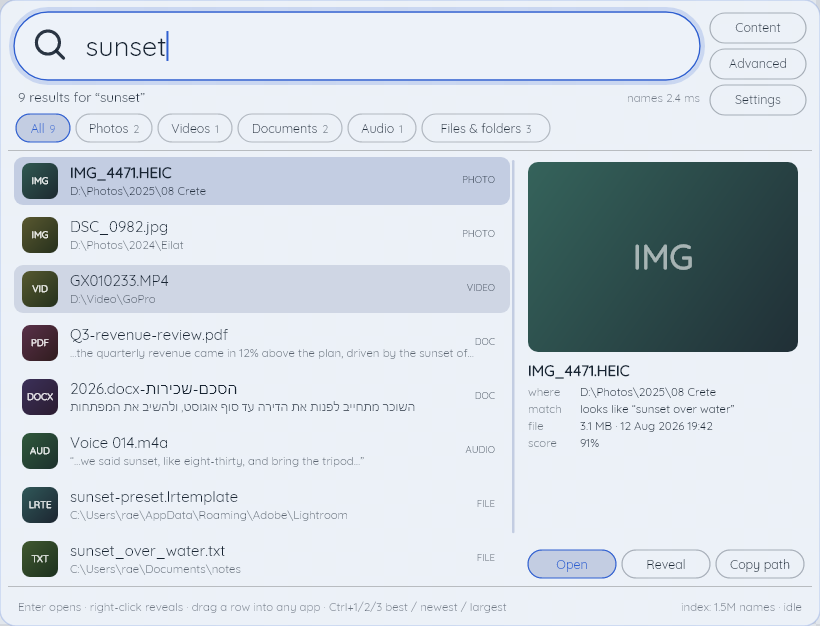
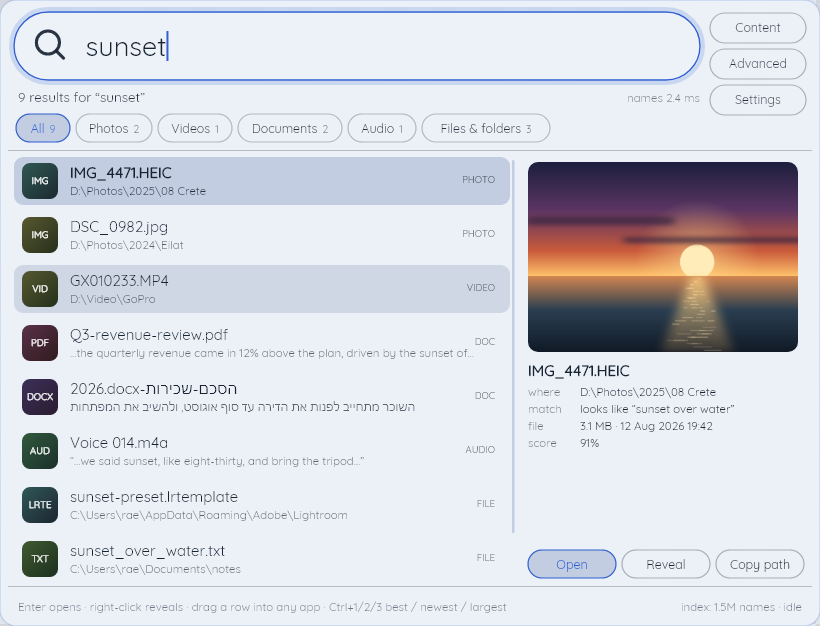
The card previews what it found, and the page opens on it
The stage's picture branch - the centre-crop that shows you the file you are
standing on - had never been rendered by any shot. Every state left StageImage
null and took the no-picture tile, so the one surface whose whole job is showing
you the file was only ever reviewed in its fallback, and the README's own alt text
for that image ("with a photo previewed beside them") had been describing
something the render did not contain.

`results` and `opening` highlight a photo and now carry one; `many` highlights a
document and keeps the tile, so both branches are on screen somewhere. The picture
is drawn rather than photographed, and it is 3:2 rather than square so the crop
actually crops - the crop being the half of that branch most likely to be wrong.
Everything else about that state is invented too: the file names, the drive
letters, the scores, the Hebrew tenancy agreement. What a shot promises is not
that the data is real but that the painter is.

docs/shots and website/public/shots pick up the four regenerated renders.

The site now opens on the mark, the name and that card, with the card running off
the right of the window rather than stopping at a gutter - a screenshot the window
crops implies there is more of it, which the same screenshot boxed in a column
does not. The crop is placed so it takes the panel's padding and not its evidence:
every row in the list is a content match, and the previewed photograph was matched
on what it shows rather than on its name.
[…]

Changed region(s): [[0.6402, 0.2428, 0.9756, 0.5767]]

diff --git a/website/public/styles.css b/website/public/styles.css
@@ -197,6 +197,49 @@ main, header, footer { position: relative; z-index: 1; }
 .btn-ghost:hover { border-color: var(--accent-line); color: var(--ink-bright); }
 .btn-sm { padding: 10px 20px; border-radius: 999px; font-size: 14px; }
 
+/* ---------- the lede ---------------------------------------------------- */
+
+/* Full-bleed on purpose. The left column lines up with .wrap's content edge - the calc is
+   that edge worked out from the viewport - while the card runs off the right of the screen
+   instead of stopping at a gutter. A screenshot cropped by the window implies there is more
+   of it; the same screenshot boxed inside a column implies that is all there is. The price is
+   that the card's right-hand preview panel goes over the edge on narrow desktops, which is why
+   the picture is the one where the preview is not the only evidence: every row in the list is
+   a content match too. */
+.lede {
+  display: grid;
+  grid-template-columns: minmax(0, 620px) minmax(0, 1fr);
+  gap: 40px; align-items: center; overflow: hidden;
+  padding-block: clamp(40px, 5.5vw, 74px);
+  padding-left: max(var(--pad), calc((100% - 1320px) / 2 + var(--pad)));
+}
+.lede-copy { display: flex; flex-direction: column; gap: 24px; }
+
+.lede-lockup { display: flex; align-items: center; gap: 16px; align-self: flex-start; }
+.lede-lockup .brand-mark {
+  width: 56px; height: 56px;
+  /* The nav's mark is already pulsing. Two of them on one screen is a tic, not a detail. */
+  animation: none;
+}
+.lede-lockup .brand-name { font-size: 34px; }
+
+.lede h1 { font-size: clamp(36px, 4.7vw, 58px); line-height: 1.02; }
+.lede h1 .accent { color: var(--accent); }
+
+.lede-shot { position: relative; margin: 0; }
+/* The glow is a blurred plate behind the image rather than a box-shadow, so the light comes
+   off the card's own footprint and survives the rotation with it. */
+.lede-shot::before {
+  content: ""; position: absolute; inset: 6% 8%;
+  background: rgba(250, 126, 0, 0.16); filter: blur(58px); border-radius: 40px;
+}
+.lede-shot img {
+  position: relative; display: block; width: min(880px, 132%); height: auto;
+  border-radius: var(--r-md); border: 1px solid var(--line);
+  box-shadow: 0 40px 90px rgba(0, 0, 0, 0.66);
+  transform: rotate(-1.5deg);
+}
+
 /* ---------- hero -------------------------------------------------------- */
 
 .hero {
@@ -213,8 +256,11 @@ main, header, footer { position: relative; z-index: 1; }
 }
 .eyebrow .dot { width: 7px; height: 7px; border-radius: 50%; background: var(--accent); }
 
-.hero h1 { font-size: clamp(38px, 5.2vw, 64px); line-height: 1.02; letter-spacing: -0.03em; }
-.hero h1 .accent { color: var(--accent); }
+/* With the lede above it this section is no longer the page's opening statement, so its
+   heading is an h2 and steps down to match. Left at hero size it read as a second first
+   thing, and the page appeared to start twice. Nothing else in the section changed. */
+.hero h2 { font-size: clamp(32px, 4vw, 50px); line-height: 1.04; letter-spacing: -0.03em; }
+.hero h2 .accent { color: var(--accent); }
 
 .hero-sub { font-size: clamp(16.5px, 1.35vw, 18.5px); line-height: 1.62; color: var(--ink-dim); max-width: 560px; }
 .hero-sub.bright { color: #d6cdbd; }
@@ -545,6 +591,12 @@ td.no { color: var(--ink-faint); }
 }
 
 @media (max-width: 960px) {
+  /* The bleed is a desktop gesture. Below this the card would be cropped past the point where
+     the list is readable, so it stops overflowing, straightens up and sits under the copy. */
+  .lede { grid-template-columns: minmax(0, 1fr); gap: 40px; padding-inline: var(--pad); }
+  .lede-shot img { width: 100%; transform: none; }
+  .lede-lockup .brand-mark { width: 44px; height: 44px; }
+  .lede-lockup .brand-name { font-size: 27px; }
   .hero { grid-template-columns: minmax(0, 1fr); gap: 44px; }
   .stack { min-height: 640px; max-width: 560px; }
   .privacy, .install { grid-template-columns: minmax(0, 1fr); }

diff --git a/website/public/index.html b/website/public/index.html
@@ -48,13 +48,52 @@
 
 <main id="top">
 
-  <!-- ================= hero ================= -->
+  <!-- ================= the lede ================= -->
+  <!-- The card runs off the right of the screen on purpose; see .lede in styles.css. -->
+  <section class="lede">
+    <div class="lede-copy">
+      <span class="lede-lockup">
+        <span class="brand-mark" aria-hidden="true"></span>
+        <span class="brand-name">FINDRA</span>
+      </span>
+
+      <h1>WINDOWS SEARCH.<br><span class="accent">BUT IT WORKS.</span></h1>
+
+      <p class="hero-sub">
+        Type one word. Findra gives you the photo that looks like it, the document that says it
+        and the recording where somebody said it - and not one of them has it in the filename.
+      </p>
+
+      <div class="hero-actions">
+        <a class="btn btn-primary" href="#install">
+          <svg width="19" height="19" viewBox="0 0 24 24" fill="none" stroke="currentColor" stroke-width="2.2" stroke-linecap="round" stroke-linejoin="round" aria-hidden="true"><circle cx="12" cy="12" r="9"/><polyline points="12 7 12 12 15 14"/></svg>
+          Coming soon
+        </a>
+        <a class="btn btn-ghost" href="#finds">See what it finds</a>
+      </div>
+
+      <div class="hero-meta">
+        <span>Windows 10 and 11</span>
+        <span class="sep">/</span>
+        <span>Apache-2.0</span>
+        <span class="sep">/</span>
+        <span>No account, because we do not want to know you</span>
+      </div>
+    </div>
+
+    <figure class="lede-shot">
+      <img src="shots/results.png" width="820" height="626"
+           alt="Findra's results card answering a search for sunset: a photograph matched on what it shows, documents matched on their text, and a recording matched on what was said">
+    </figure>
+  </section>
+
+  <!-- ================= the ticket ================= -->
   <div class="wrap">
     <section class="hero">
       <div class="hero-copy">
         <span class="eyebrow"><span class="dot"></span>TICKET #3036 &middot; OPEN SINCE 1996 &middot; NOW CLOSED</span>
 
-        <h1>WE FIXED WINDOWS<br>SEARCH.<br><span class="accent">YOU'RE WELCOME.</span></h1>
+        <h2>WE FIXED WINDOWS SEARCH.<br><span class="accent">YOU'RE WELCOME.</span></h2>
 
         <p class="hero-sub">
           You bought a drive that reads seven thousand megabytes a second. Windows uses it to

diff --git a/src/Findra/Diagnostics/SearchShot.cs b/src/Findra/Diagnostics/SearchShot.cs
@@ -333,6 +333,13 @@ public static class SearchShot
             // clause here is a sentence IndexStatus.Line or IndexLineFormatter really produces.
             IndexLine: state == "many" ? LongIndexLine : "index: 1.5M names · idle",
             StageDetail: "3.1 MB · 12 Aug 2026 19:42", Clock: 0.2,
+            // The stage's PICTURE branch - the centre-crop in DrawStage - was painted by no shot
+            // at all: every state left StageImage null and took the no-art tile, so the one
+            // surface whose whole job is showing you the file was only ever reviewed in its
+            // fallback. `results` and `opening` highlight a photo and get one; `many` highlights
+            // a document and keeps the tile, so both branches are on screen somewhere.
+            StageImage: highlight >= 0 && highlight < rows.Count && rows[highlight].Kind == ResultKind.Photo
+                ? SunsetOverWater() : null,
             // `results` hovers a row that is not the selected one: without it the list's hover
             // fill is painted by no shot and no test, which is what let RowHover sit within
             // 1.4 L* of Row - and inverted on two palettes - without anything noticing.
@@ -344,4 +351,121 @@ public static class SearchShot
             OpenedAt: state == "opening" ? 0.13 : -1);
     }
 
+    /// <summary>The demo photograph: a sunset over water, DRAWN rather than photographed.
+    ///
+    /// <para>Everything else about this state is invented too - the file names, the drive
+    /// letters, the scores, the Hebrew tenancy agreement - and the point of the shot has never
+    /// been that the data is real. It is that the PAINTER is: what a shot shows is what the card
+    /// puts on a screen, pixel for pixel. So the picture is handed to <c>DrawStage</c> as an
+    /// ordinary <see cref="SKImage"/> and goes through the same clip, the same centre-crop and
+    /// the same sampling a decoded HEIC would.</para>
+    ///
+    /// <para>It is deliberately 3:2 and not square. The stage's picture well is square for a
+    /// photo, so a square source would scale and never crop, and the crop is the half of that
+    /// branch most likely to be wrong. This one loses a third of its width and keeps the sun.
+    /// </para></summary>
+    private static SKImage SunsetOverWater()
+    {
+        const int w = 480, h = 320;
+        const float horizon = h * 0.60f;
+
+        using SKSurface surface = SKSurface.Create(new SKImageInfo(w, h, SKColorType.Bgra8888, SKAlphaType.Premul));
+        SKCanvas c = surface.Canvas;
+
+        using (var sky = new SKPaint { IsAntialias = true })
+        {
+            sky.Shader = SKShader.CreateLinearGradient(
+                new SKPoint(0, 0), new SKPoint(0, horizon),
+                [new SKColor(0x1B, 0x1E, 0x3C), new SKColor(0x5B, 0x35, 0x63),
+                 new SKColor(0xC9, 0x5A, 0x3A), new SKColor(0xFF, 0xC1, 0x6B)],
+                [0f, 0.42f, 0.78f, 1f], SKShaderTileMode.Clamp);
+            c.DrawRect(new SKRect(0, 0, w, horizon), sky);
+        }
+
+        // The sun, just clear of the horizon and off centre, so the crop has something to keep.
+        const float sx = w * 0.62f, sy = horizon - 24f, sr = 29f;
+        using (var glow = new SKPaint { IsAntialias = true })
+        {
+            glow.Shader = SKShader.CreateRadialGradient(
+                new SKPoint(sx, sy), sr * 3.6f,
+                [new SKColor(0xFF, 0xD9, 0x8A, 150), new SKColor(0xFF, 0xD9, 0x8A, 0)],
+                SKShaderTileMode.Clamp);
+            c.DrawCircle(sx, sy, sr * 3.6f, glow);
+        }
+        using (var disc = new SKPaint { IsAntialias = true, Color = new SKColor(0xFF, 0xEC, 0xB8) })
+            c.DrawCircle(sx, sy, sr, disc);
+
+        // Blurred, because an unblurred bar in a sky reads as a user-interface element rather
+        // than as cloud, and this picture has to survive being three centimetres wide.
+        using (var cloud = new SKPaint
+        {
+            IsAntialias = true, Color = new SKColor(0x33, 0x24, 0x40, 165),
+            ImageFilter = SKImageFilter.CreateBlur(7f, 3.5f),
+        })
+        {
+            c.DrawRoundRect(new SKRoundRect(new SKRect(w * 0.02f, horizon - 100, w * 0.54f, horizon - 86), 7), cloud);
+            c.DrawRoundRect(new SKRoundRect(new SKRect(w * 0.36f, horizon - 66, w * 1.00f, horizon - 55), 6), cloud);
+        }
+
+        using (var sea = new SKPaint { IsAntialias = true })
+        {
+            sea.Shader = SKShader.CreateLinearGradient(
+                new SKPoint(0, horizon), new SKPoint(0, h),
+                [new SKColor(0xD2, 0x86, 0x50), new SKColor(0x2A, 0x3E, 0x50), new SKColor(0x10, 0x19, 0x26)],
+                [0f, 0.45f, 1f], SKShaderTileMode.Clamp);
+            c.DrawRect(new SKRect(0, horizon, w, h), sea);
+        }
+
+        // The sun's light on the water: a soft wedge widening as it comes forward, with broken
+        // streaks over it. A stack of centred bars on its own reads as a staircase, so the wedge
+        // carries the glow and the streaks only break it up.
+        using (var column = new SKPaint { IsAntialias = true, ImageFilter = SKImageFilter.CreateBlur(9f, 5f) })
+        {
+            column.Shader = SKShader.CreateLinearGradient(
+                new SKPoint(0, horizon), new SKPoint(0, h),
+                [new SKColor(0xFF, 0xDA, 0x8C, 190), new SKColor(0xFF, 0xC0, 0x70, 40)],
+                SKShaderTileMode.Clamp);
+            using var wedge = new SKPath();
+            wedge.MoveTo(sx - 10f, horizon);
+            wedge.LineTo(sx + 10f, horizon);
+            wedge.LineTo(sx + 62f, h);
+            wedge.LineTo(sx - 62f, h);
+            wedge.Close();
+            c.DrawPath(wedge, column);
+        }
+
+        // A fixed seed, so the same command produces the same file: a shot that differs run to
+        // run cannot be checked against the one in the repository.
+        uint seed = 0x5EA5;
+        float Rand()
+        {
+            seed = seed * 1664525u + 1013904223u;
+            return ((seed >> 8) & 0xFFFF) / 65535f;
+        }
+
+        // Several short pieces scattered across the column at each depth, not one centred bar
+        // per row: a bar per row is a ladder, and a ladder is what the eye sees first.
+        using (var streak = new SKPaint { IsAntialias = true })
+            for (float y = horizon + 3f; y < h; y += 5.5f)
+            {
+                float t = (y - horizon) / (h - horizon);
+                float reach = 8f + t * 58f;
+                int pieces = 1 + (int)(Rand() * 3f);
+                for (int i = 0; i < pieces; i++)
+                {
+                    // Two samples averaged, so the pieces crowd the middle of the column and
+                    // thin out at its edges, which is where a real glitter path puts them.
+                    float bias = (Rand() + Rand()) / 2f;
+                    float cx = sx + (bias * 2f - 1f) * reach;
+                    float len = reach * (0.16f + Rand() * 0.42f);
+                    streak.Color = new SKColor(0xFF, 0xE8, 0xB6,
+                        (byte)(140f * (1f - t * 0.6f) * (0.45f + Rand() * 0.55f)));
+                    c.DrawRoundRect(new SKRoundRect(
+                        new SKRect(cx - len / 2f, y, cx + len / 2f, y + 2.1f), 1.05f), streak);
+                }
+            }
+
+        c.Flush();
+        return surface.Snapshot();
+    }
 }

diff --git a/CHANGELOG.md b/CHANGELOG.md
@@ -371,6 +371,17 @@ into a numbered section on the first release.
   rather than offering a download that does not exist yet. A page that sells "nothing leaves your
   machine" should not itself be reaching out, so a content security policy permits the two font
   hosts and nothing else - no analytics, no beacons, and no way for one to arrive by accident.
+  The page opens on the mark, the name and the results card, with the card running off the right
+  of the screen rather than stopping at a gutter; the ticket that used to open it now follows it.
+
+- **The results card previews the photograph it found.** The stage's picture - the centre-crop
+  that shows you the file you are standing on - had never been rendered by any `--searchshot`
+  state: every one of them left the image unset and took the no-picture tile instead, so the one
+  surface whose whole job is showing you the file was only ever reviewed in its fallback. The
+  `results` and `opening` states now carry a picture and `many` keeps the tile, which puts both
+  branches on screen. The picture is drawn rather than photographed, like every other thing about
+  that state: the file names, the drive letters, the scores and the Hebrew tenancy agreement are
+  all invented, and what a shot has always promised is that the PAINTER is real.
 
 - **Settings is on the card.** A Settings button sits under Advanced, in the same column as
   the Content pill, so the capability list, the transcription limit, the indexing power and the
